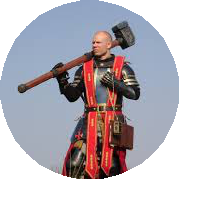
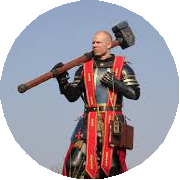
add rotation

diff --git a/src/lib/Element.cc b/src/lib/Element.cc
@@ -153,11 +153,13 @@ namespace game {
 
   void Element::render(sf::RenderWindow& window) {
     auto pos = m_body->GetPosition();
+    auto angle = m_body->GetAngle();
 
     sf::Sprite sprite;
-    sprite.setScale(ELEMENT_SIZE/90,ELEMENT_SIZE/90);
-    sprite.setOrigin(ELEMENT_SIZE, ELEMENT_SIZE);
+    sprite.setOrigin(4.5f * ELEMENT_SIZE, 4.5f * ELEMENT_SIZE);
+    sprite.setScale(ELEMENT_SIZE / 90.0f, ELEMENT_SIZE / 90.0f);
     sprite.setPosition(pos.x, pos.y);
+    sprite.setRotation(angle * 180 / M_PI);
 
     switch(m_type){
     case ElementType::PAPER:
@@ -172,10 +174,9 @@ namespace game {
     }
 
     if (m_function == ElementFunction::PLAYER) {
-      sf::CircleShape shape;
-      shape.setRadius(24.0f);
-      shape.setOrigin(9.0f, 9.0f);
-      shape.setPosition(pos.x,pos.y);
+      sf::CircleShape shape(24.0f);
+      shape.setOrigin(24.0f, 24.0f);
+      shape.setPosition(pos.x, pos.y);
       shape.setFillColor(sf::Color(0,0,0,150));
       window.draw(shape);
     }
